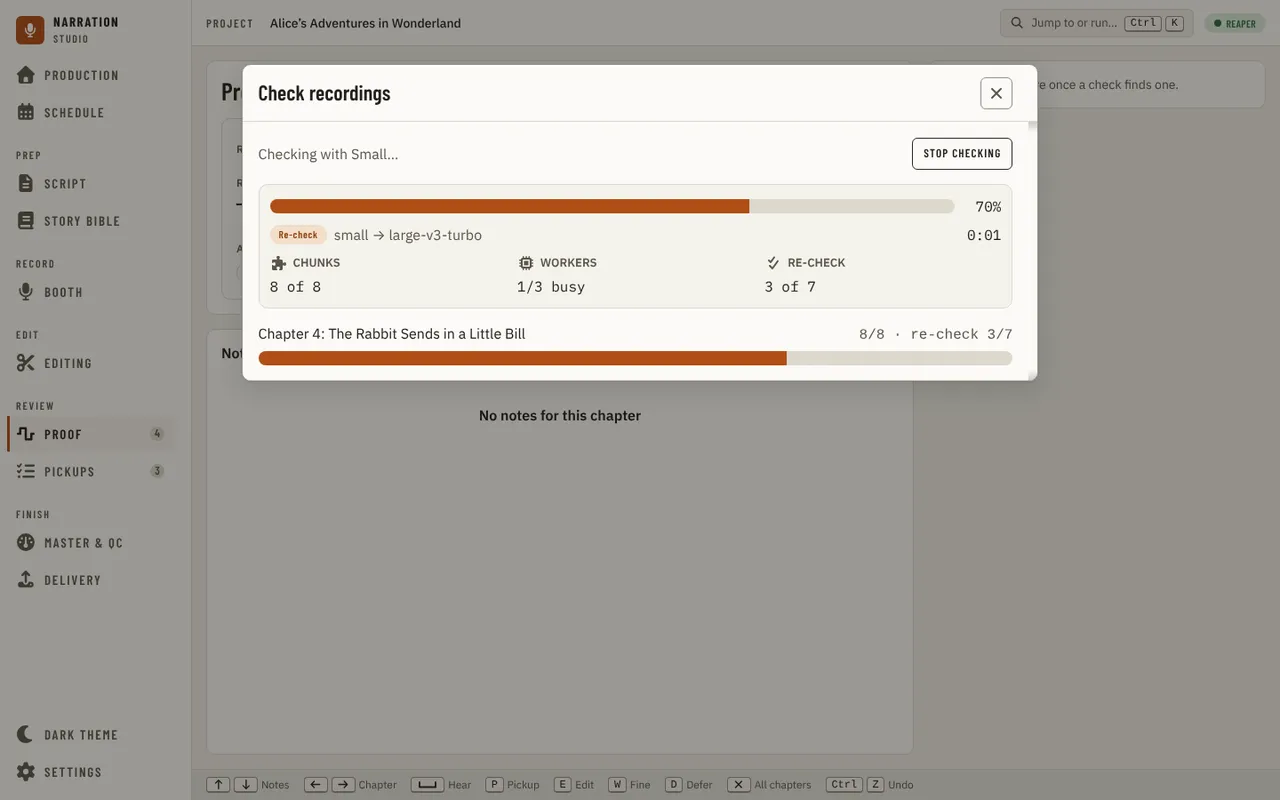
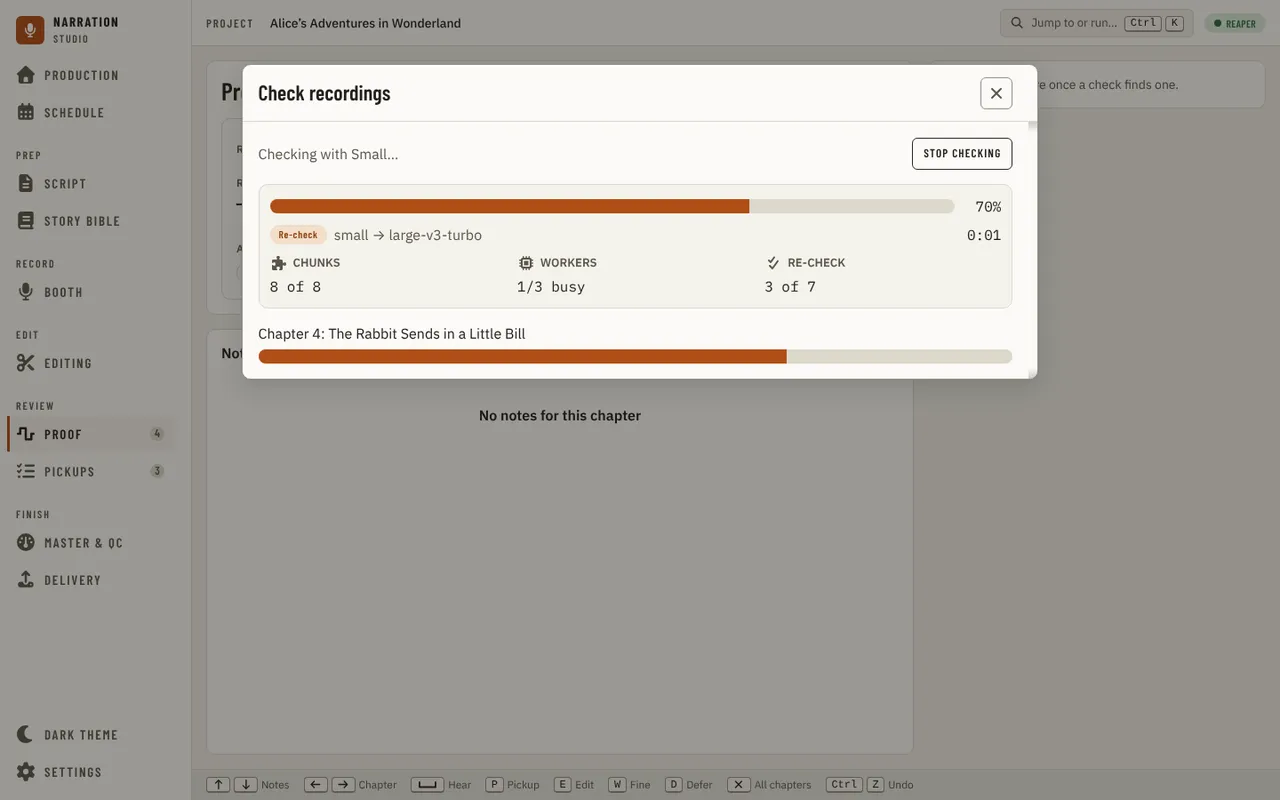
fix(ui): keep failed chapters out of the overall bar; ask to stop once
Claude-Session: https://claude.ai/code/session_01EBTykdg9mJqFxXWQro4rTK

Changed region(s): [[0.1875, 0.4375, 0.8125, 0.5], [0.7188, 0.4062, 0.7812, 0.4375], [0.6562, 0.4062, 0.6875, 0.4375]]

diff --git a/src/studio/ui/src/components/recordingcheck/checkRun.test.ts b/src/studio/ui/src/components/recordingcheck/checkRun.test.ts
@@ -1,6 +1,6 @@
 import { describe, expect, it } from 'vitest';
 import type { CoverageStartResult } from '../../api/contracts/coverage';
-import { idleRun, runReducer, type RunAction, type RunState } from './checkRun';
+import { idleRun, overallPercent, runReducer, type RunAction, type RunState } from './checkRun';
 
 const started = (runId: string): CoverageStartResult => ({ status: 'started', state: { runId, phase: 'running', percent: 0, message: '' } });
 const apply = (state: RunState, ...actions: RunAction[]) => actions.reduce(runReducer, state);
@@ -148,5 +148,28 @@ describe('runReducer activity', () => {
     let s = apply(idleRun, { type: 'begin', ids: ['a'] }, { type: 'answered', id: 'a', answer: started('r1') });
     s = apply(s, { type: 'progress', runId: 'r1', percent: 30, activity: activity(5, 2) });
     expect(apply(s, { type: 'begin', ids: ['a'] }).seen).toEqual({});
+  });
+});
+
+describe('overallPercent', () => {
+  it('is the mean of the chapters that count: finished ones full, the running one at its percent', () => {
+    let s = apply(idleRun, { type: 'begin', ids: ['a', 'b'], limit: 2 });
+    s = apply(
+      s,
+      { type: 'answered', id: 'a', answer: started('r1') },
+      { type: 'answered', id: 'b', answer: started('r2') },
+      { type: 'progress', runId: 'r2', percent: 60 },
+    );
+    expect(overallPercent(s)).toBe(30);
+    s = apply(s, { type: 'ended', runId: 'r1', phase: 'complete', message: '' });
+    expect(overallPercent(s)).toBe(80);
+  });
+
+  it('leaves a refused or failed chapter out, so it cannot hold the bar down', () => {
+    let s = apply(idleRun, { type: 'begin', ids: ['a', 'b'], limit: 2 }, { type: 'answered', id: 'a', answer: refused('Link a track first.') });
+    s = apply(s, { type: 'answered', id: 'b', answer: started('r2') }, { type: 'progress', runId: 'r2', percent: 60 });
+    expect(overallPercent(s)).toBe(60);
+    s = apply(s, { type: 'ended', runId: 'r2', phase: 'failed', message: 'It broke.' });
+    expect(overallPercent(s)).toBe(0);
   });
 });

diff --git a/src/studio/ui/src/components/recordingcheck/RunningView.tsx b/src/studio/ui/src/components/recordingcheck/RunningView.tsx
@@ -5,7 +5,7 @@ import { Button } from '../primitives/Button';
 import { ProgressBar } from '../primitives/ProgressBar';
 import { CheckActivityPanel } from './CheckActivityPanel';
 import { summarizeActivity } from './activityView';
-import type { RunState } from './checkRun';
+import { overallPercent, type RunState } from './checkRun';
 
 /** The run in progress: a bar per chapter under its name (the real percent for each one running, full for the ones through, empty for the ones
  * waiting) and Stop checking beside the line that says what runs (alignment audit XPF-18, R3PF-8: the card's button says the same). */
@@ -13,8 +13,7 @@ export function RunningView({ chapters, run, model, onStop }: { chapters: readon
   const view = summarizeActivity(
     run.ids.map((id) => ({ activity: run.active[id]?.activity ?? run.seen[id], pass: run.active[id]?.pass, running: id in run.active })),
   );
-  const percents = run.ids.map((id) => (run.active[id] ? run.active[id].percent : run.finished.includes(id) ? 100 : 0));
-  const overall = percents.length === 0 ? 0 : percents.reduce((a, b) => a + b, 0) / percents.length;
+  const overall = overallPercent(run);
   return (
     <div className="flex flex-col gap-4">
       <div className="flex flex-wrap items-center gap-3">

diff --git a/src/studio/ui/src/components/recordingcheck/CheckRecordingsDialog.tsx b/src/studio/ui/src/components/recordingcheck/CheckRecordingsDialog.tsx
@@ -235,9 +235,13 @@ export function CheckRecordingsDialog({
   stopRef.current = stop;
   useEffect(() => {
     if (!running) return;
+    let asking = false;
     const onKey = (event: KeyboardEvent) => {
       if (event.key !== 'Escape') return;
       event.preventDefault();
+      // The question is already up: Escape answers it (the confirm's own handler), it never asks a second one.
+      if (asking) return;
+      asking = true;
       void overlay
         .confirm({
           title: 'Stop checking?',
@@ -245,7 +249,10 @@ export function CheckRecordingsDialog({
           confirmLabel: 'Stop',
           confirmVariant: 'danger',
         })
-        .then((yes) => yes && stopRef.current());
+        .then((yes) => {
+          asking = false;
+          if (yes) stopRef.current();
+        });
     };
     document.addEventListener('keydown', onKey, true);
     return () => document.removeEventListener('keydown', onKey, true);

diff --git a/src/studio/ui/src/components/recordingcheck/CheckRecordingsDialog.test.tsx b/src/studio/ui/src/components/recordingcheck/CheckRecordingsDialog.test.tsx
@@ -528,6 +528,15 @@ describe('CheckRecordingsDialog', () => {
       expect(figure('Re-check')).toMatch(/^Re-check: 3 of 7\+\. large-v3-turbo re-checks passages the first model was unsure of\./);
     });
 
+    it('asks "Stop checking?" once however many times Escape is pressed', async () => {
+      const { api } = host();
+      open(api, ['a']);
+      await userEvent.click(await screen.findByRole('button', { name: 'Check 1 chapter' }));
+      await screen.findByRole('region', { name: 'Check activity' });
+      await userEvent.keyboard('{Escape}{Escape}{Escape}');
+      expect(await screen.findAllByText('Stop checking?')).toHaveLength(1);
+    });
+
     it('says nothing needed re-checking when the first pass left nothing in doubt, and that there is no re-check when none was asked for', async () => {
       const { api, emit } = host();
       open(api, ['a']);

diff --git a/src/studio/ui/src/components/recordingcheck/checkRun.ts b/src/studio/ui/src/components/recordingcheck/checkRun.ts
@@ -132,3 +132,12 @@ export function runReducer(state: RunState, action: RunAction): RunState {
       return state.step === 'running' ? { ...state, step: 'stopped', active: {}, interrupted: Object.keys(state.active).length } : state;
   }
 }
+
+/** The run's overall percent: the mean of the chapters that can still count, each at its own percent (full once finished). A chapter the host refused or
+ * whose run failed or was cancelled is out of the mean, so it cannot hold the bar below what the others have done. */
+export function overallPercent(state: RunState): number {
+  const counted = state.ids.filter((id) => !(id in state.messages));
+  if (counted.length === 0) return 0;
+  const total = counted.reduce((sum, id) => sum + (state.active[id] ? state.active[id].percent : state.finished.includes(id) ? 100 : 0), 0);
+  return total / counted.length;
+}
